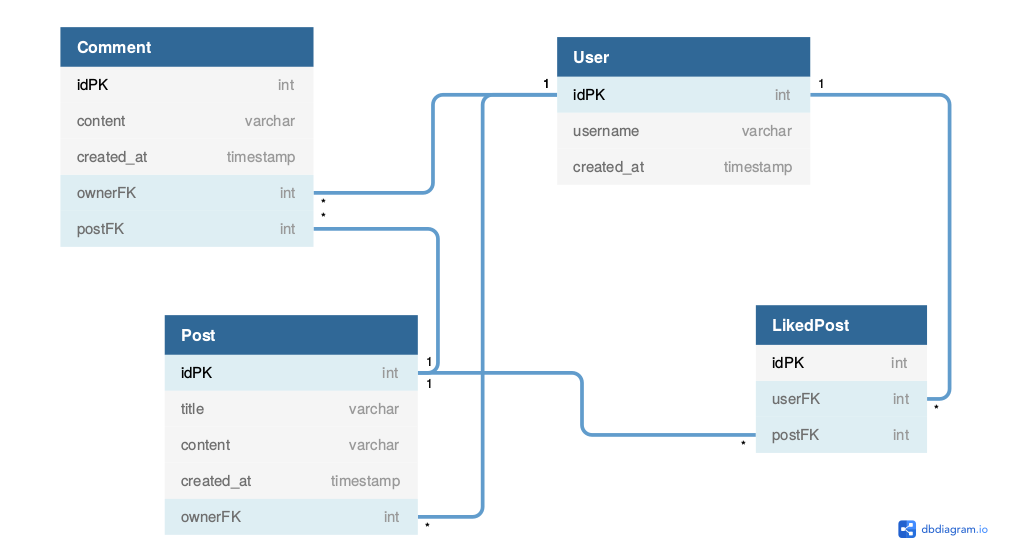
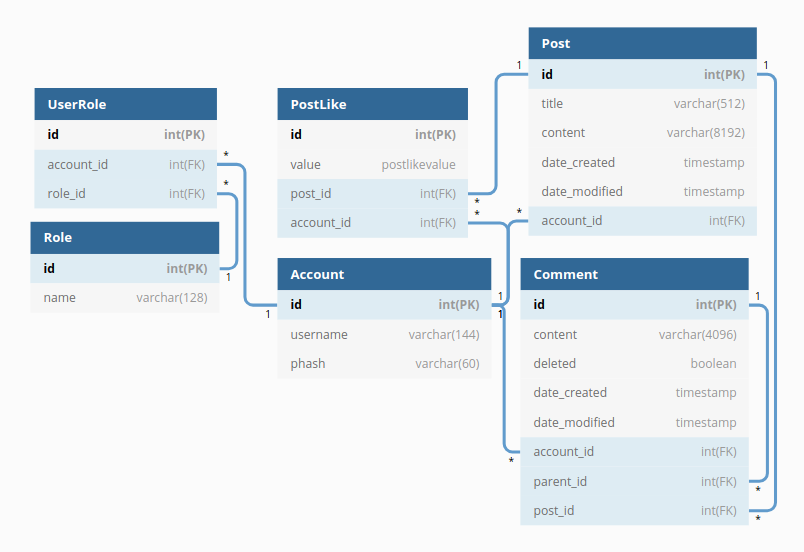
Kaikki dokumentaatio

diff --git a/README.md b/README.md
@@ -1,43 +1,265 @@
-# inoolktidder
-Tietokantasovellus, 2019
+# Tidd3r
+
+## Kuvaus
+
+Tarkoituksena oli luoda redditin tapainen keskustelufoorumi, jossa käyttäjät voivat luoda kaikille näkyviä postauksia, joille voi antaa tykkäyksiä tai kommentteja. Näitä postauksia voi ruveta selaamaan heti etusivulta ja niiden sisältöön sekä kommenttiosioon pääsee otsikkoa klikkaamalla.
+
+Iso osa reddittiä on kommenttien hierarkkinen esitysmuoto, joka on käytössä myös tässä sovelluksessa. Kommentteja voi luoda joko suoraan postauksiin tai vastauksena toisiin kommentteihin.
+
+Jokainen käyttäjä voi myös antaa yhden plus- tai miinuspisteen postausta kohti. Postaukset järjestetään oletusarvoisesti näiden pisteiden summan avulla, joten toiminnolla on merkitystä postausten näkyvyyden kannalta.
 
 
-# Kuvaus
+## [Demo](https://tidd3r.herokuapp.com/)
 
-Reddit-tyylinen julkinen keskustelufoorumi, jossa kuka tahansa sisään kirjautunut käyttäjä voi luoda postauksia sekä kommentoida niihin ja antaa niille tykkäyksiä. Postaukset näytetään listamuodossa heti etusivulla. Postauksia voi luonnollisesti klikata, jotta saadaan näkyviin niiden sisältö ja niihin luodut kommentit. Kommentteja voi luoda myös vastauksena muihin kommentteihin, jolloin niistä muodostuu esitysmuotonsa ansiosta kommenttiketjuja.
+![Tidd3r herokussa.](documentation/images/Preview.png)
 
+### Demon testitunnukset
 
-# Heroku-demo
+| Käyttäjänimi  | Salasana |
+|---------------|----------|
+| hello         | world    |
+| red           | world    |
+| blue          | world    |
 
-[Tidd3r](https://tidd3r.herokuapp.com/)
+## Käyttöohje
 
+### Käyttäjä
 
-# Käyttöohje
-
-- Sovellus toimii lataamalla sovelluksen etusivun, johon postaukset on listattu ja klikkailemalla mieleisiä linkkejä.
 - Linkit kirjautumiseen ja rekisteröitymiseen löytyvät oikeasta yläkulmasta.
 - Rekisteröityminen vaatii vain uniikin käyttäjänimen sekä salasanan, joista molempien täytyy olla vähintään 3 merkkiä pitkiä.
-- Linkki oman postauksen luomiseen on etusivulla, muiden postausten yläpuolella. Tämä toiminnallisuus vaatii oman käyttäjätunnuksen.
-- Omia postauksia voi editoida käyttämällä 'edit'-linkkiä etusivulla tai postauksen tarkemmassa näkymässä. Samaten poistaminen onnistuu 'edit'-linkin vieressä olevalla 'delete'-linkillä.
-- Kommentin luominen onnistuu kun postauksen tarkempaan näkymään on siirrytty etusivulta. Kommentin tekstikenttä löytyy joko suoraan postauksen alapuolelta tai ilmestyy klikkaamalla 'reply'-linkkiä missä tahansa kommentissa.
-- Oman kommentin voi poistaa 'delete'-linkillä
-- **Vihje**: kommenttiosioon pääsee nopeammin painamalla etusivulta 'comments'-linkkiä otsikon sijaan.
+- Omaan profiiliin pääsee klikkaamalla oikealla yläkulmassa oman käyttäjän nimeä.
+- Profiilista voi vaihtaa käyttäjänimen 'edit'-linkin avulla tai salasanan käyttäjänimen alapuolella olevan lomakkeen avulla.
+- Käyttäjänsä voi poistaa _Delete_-linkistä.
 
-# Tietokantakaavio
+> **Huom.** Oman käyttäjän poistaminen ei poista käyttäjän tekemiä postauksia tai kommentteja. Poistetun käyttäjän postausten ja kommenttien käyttäjänimen tilalla näytetään _[deleted]_.
+
+### Postaukset
+
+- Muiden postausten tarkempaan näkymään pääsee klikkaamalla niiden otsikkoa. **Vihje:** Painamalla _comments_-linkkiä pääset suoraan kommenttiosioon.
+- Linkki oman postauksen luomiseen on etusivulla, muiden postausten yläpuolella.
+- Postauksen luonti tapahtuu antamalla vähintään 3-merkkisen otsikon sekä vaihtoehtoisesti myös sisällön ja painamalla _Submit!_.
+- Omia postauksia voi editoida käyttämällä _Edit_-linkkiä etusivulla tai postauksen tarkemmassa näkymässä.
+- Samaten poistaminen onnistuu _Edit_-linkin vieressä olevalla _Delete_-linkillä.
+
+### Kommentit
+
+- Kommentin luominen onnistuu kun postauksen tarkempaan näkymään on siirrytty etusivulta. Kommentin tekstikenttä löytyy joko suoraan postauksen alapuolelta tai ilmestyy klikkaamalla _Reply_-linkkiä missä tahansa kommentissa.
+- Oman kommentin editointi ja poistaminen tapahtuu sen sisällön alapuolella olevilla _Edit_ ja _Delete_ linkeillä.
+
+> **Huom.** Kommentin poistaminen ei oikeasti poista kommenttia tietokannasta vaan asettaan sen attribuutin `deleted` arvoksi `True`, jolloin kommentin sisällön tilalla näytetään _[deleted]_.
+
+
+## Asennusohje Linuxille
+
+```bash
+curl -LO https://github.com/esksami/inoolktidder/archive/master.zip
+unzip master.zip; rm master.zip
+cd inoolktidder-master/
+python3 -m venv venv
+source venv/bin/activate
+pip install -r requirements.txt
+python run.py
+```
+Sovellus löytyy selaimella osoitteesta http://localhost:5000.
+
+## Rajoitteet ja jatkokehitysideat
+
+- Kommentteja ei voi vielä äänestää. Tämä olisi helppo lisäys jos ottaa mallia postauksista.
+- Kommentteja haetaan tällä hetkellä ensimmäiset 100, eikä niitä voi hakea enempää. Kommenttien alapuolella pitäisi näyttää _show more_-linkki, jos niille löytyy lisää vastauksia tietokannasta.
+- Kommentteja pitäisi pystyä järjestämään kuten postauksiakin.
+- Postaukset voisi rajata tietylle aikavälille, ettei samoja postauksia tarvitse selata viikosta toiseen kun järjestyksenä on _popular_.
+- Postauksien otsikon ja sisällön prosessointi markdownina
+- Postausiin ja kommentteihin voisi laittaa _\*_ -merkin, jos niitä on editoitu.
+- Vaikka roolit on toteutettu sovelluksessa niitä ei hyödynnetä. _Moderaattori_-ryhmään kuuluville voisi antaa toiminnalisuuden käyttäjien estämiseksi ja _Admin_-ryhmään kuuluville mahdollisuudet käyttäjien poistamiseen.
+
+## Tietokantarakenteen kuvaus
+
+### Tietokantakaavio
 
 ![Tietokantakaavio](documentation/images/Tietokantakaavio.png)
 
 
-# User storyt
-
-- User can add a post
-- User can view all posts
-- User can like posts
-- User can view content of a post
-- User can edit the title and contents of a post
+### SQL
 
 
-# Testitunnukset
+```sql
+CREATE TABLE account (
+    id SERIAL NOT NULL, 
+    username VARCHAR(144) NOT NULL, 
+    phash VARCHAR(60) NOT NULL, 
+    PRIMARY KEY (id), 
+    UNIQUE (username)
+)
 
-username: hello, password: world
-username: test, password: password
+CREATE TABLE post (
+    id SERIAL NOT NULL, 
+    date_created TIMESTAMP WITHOUT TIME ZONE, 
+    date_modified TIMESTAMP WITHOUT TIME ZONE, 
+    title VARCHAR(512) NOT NULL, 
+    content VARCHAR(8192) NOT NULL, 
+    account_id INTEGER, 
+    PRIMARY KEY (id), 
+    FOREIGN KEY (account_id) REFERENCES account(id)
+)
+
+CREATE TYPE postlikevalue AS ENUM ('dislike', 'like')
+
+CREATE TABLE post_like (
+    id SERIAL NOT NULL, 
+    value postlikevalue NOT NULL, 
+    post_id INTEGER, 
+    account_id INTEGER, 
+    PRIMARY KEY (id), 
+    UNIQUE (post_id, account_id), 
+    FOREIGN KEY (post_id) REFERENCES post(id), 
+    FOREIGN KEY (account_id) REFERENCES account(id)
+)
+
+CREATE TABLE comment (
+    id SERIAL NOT NULL, 
+    date_created TIMESTAMP WITHOUT TIME ZONE, 
+    date_modified TIMESTAMP WITHOUT TIME ZONE, 
+    content VARCHAR(4096), 
+    account_id INTEGER, 
+    post_id INTEGER NOT NULL, 
+    parent_id INTEGER, 
+    deleted BOOLEAN NOT NULL, 
+    PRIMARY KEY (id), 
+    FOREIGN KEY (account_id) REFERENCES account(id), 
+    FOREIGN KEY (post_id) REFERENCES post(id), 
+    FOREIGN KEY (parent_id) REFERENCES comment(id)
+)
+
+CREATE TABLE role (
+    id SERIAL NOT NULL, 
+    name VARCHAR(128), 
+    PRIMARY KEY (id), 
+    UNIQUE (name)
+)
+
+CREATE TABLE user_role (
+    id SERIAL NOT NULL, 
+    role_id INTEGER NOT NULL, 
+    account_id INTEGER, 
+    PRIMARY KEY (id), 
+    FOREIGN KEY (role_id) REFERENCES role(id), 
+    FOREIGN KEY (account_id) REFERENCES accoun(id)
+)
+```
+
+## Käyttötapaukset ja niiden kyselyt
+
+### Käyttäjä
+
+```sql
+/*User can signup*/
+INSERT INTO account (username, phash) VALUES ({username}, {phash})
+
+/*User can login*/
+SELECT id, username, phash FROM account WHERE id = {id}
+
+/*User can edit their username*/
+UPDATE account SET username={username} WHERE id = {id}
+
+/*User can edit their password*/
+UPDATE account SET phash={phash} WHERE id = {id}
+
+/*User can delete themselves*/
+DELETE FROM account WHERE id = {id}
+
+/*User can view their profile*/
+SELECT id, username FROM account WHERE id = {id}
+```
+
+### Postaukset
+```sql
+/*User can create a post*/
+INSERT INTO post (date_created, date_modified, title, content, account_id)
+VALUES (CURRENT_TIMESTAMP, CURRENT_TIMESTAMP, {title}, {content}, {account_id})
+
+/*User can edit the title or contents of a post*/
+UPDATE post SET date_modified=CURRENT_TIMESTAMP, title={title}, content={content} 
+WHERE id = {id}
+
+/*User can delete a post*/
+DELETE FROM post WHERE id = {id}
+
+/*User can view posts*/
+SELECT
+    (EXTRACT(epoch FROM CURRENT_TIMESTAMP) - 
+     EXTRACT(epoch FROM post.date_created)) AS seconds_since_created,
+    post.id,
+    post.date_created,
+    post.date_modified,
+    post.title,
+    post.content,
+    post.account_id,
+    max(comment_count.comments) AS comments,
+    count(CASE
+        WHEN (post_like.value = 'like') THEN post_like.value END
+    ) AS likes,
+    count(CASE
+        WHEN (post_like.value = 'dislike') THEN post_like.value END
+    ) AS dislikes,
+    sum(CASE
+        WHEN (post_like.value = 'like') THEN 1
+        WHEN (post_like.value = 'dislike') THEN -1
+        ELSE 0 END
+    ) AS popularity,
+    max(CASE
+        WHEN (post_like.account_id = {account_id})
+        THEN post_like.value END
+    ) AS user_like
+FROM post
+LEFT OUTER JOIN account ON account.id = post.account_id
+LEFT OUTER JOIN (
+    SELECT 
+        post.id,
+        count(comment.id) AS comments 
+    FROM post
+    LEFT OUTER JOIN comment ON comment.post_id = post.id 
+    GROUP BY post.id
+) AS comment_count ON comment_count.id = post.id 
+LEFT OUTER JOIN post_like ON post_like.post_id = post.id 
+GROUP BY post.id;
+
+/*User can like or dislike post*/
+INSERT INTO post_like (value, post_id, account_id) VALUES ({'like'|'dislike'}, {post_id}, {account_id}) 
+
+/*User can unlike or undislike post*/
+DELETE FROM post_like WHERE id = {id}
+```
+
+### Kommentit
+```sql
+/*User can comment on a post*/
+INSERT INTO comment (date_created, date_modified, content, account_id, post_id, parent_id, deleted)
+VALUES (CURRENT_TIMESTAMP, CURRENT_TIMESTAMP, {content}, {account_id}, {post_id}, {parent_id}, 'false')
+
+/*User can reply to a comment*/
+INSERT INTO comment (date_created, date_modified, content, account_id, post_id, parent_id, deleted)
+VALUES (CURRENT_TIMESTAMP, CURRENT_TIMESTAMP, {content}, {account_id}, {post_id}, {parent_id}, {deleted})
+
+/*User can edit the content of a comment*/
+UPDATE comment SET date_modified=CURRENT_TIMESTAMP, content={content} WHERE id = {id}
+
+/*User can delete a comment*/
+UPDATE comment SET date_modified=CURRENT_TIMESTAMP, deleted='false' WHERE id = {id}
+
+/*User can view comments in a post*/
+SELECT 
+    (EXTRACT(epoch FROM CURRENT_TIMESTAMP) -
+     EXTRACT(epoch FROM comment.date_created) AS seconds_since_created,
+    comment.id,
+    comment.date_created,
+    comment.date_modified,
+    comment.content,
+    comment.account_id,
+    comment.post_id,
+    comment.parent_id,
+    comment.deleted,
+FROM comment LEFT OUTER JOIN account ON account.id = comment.account_id 
+WHERE comment.post_id = {post_id} 
+LIMIT 100
+```
+
